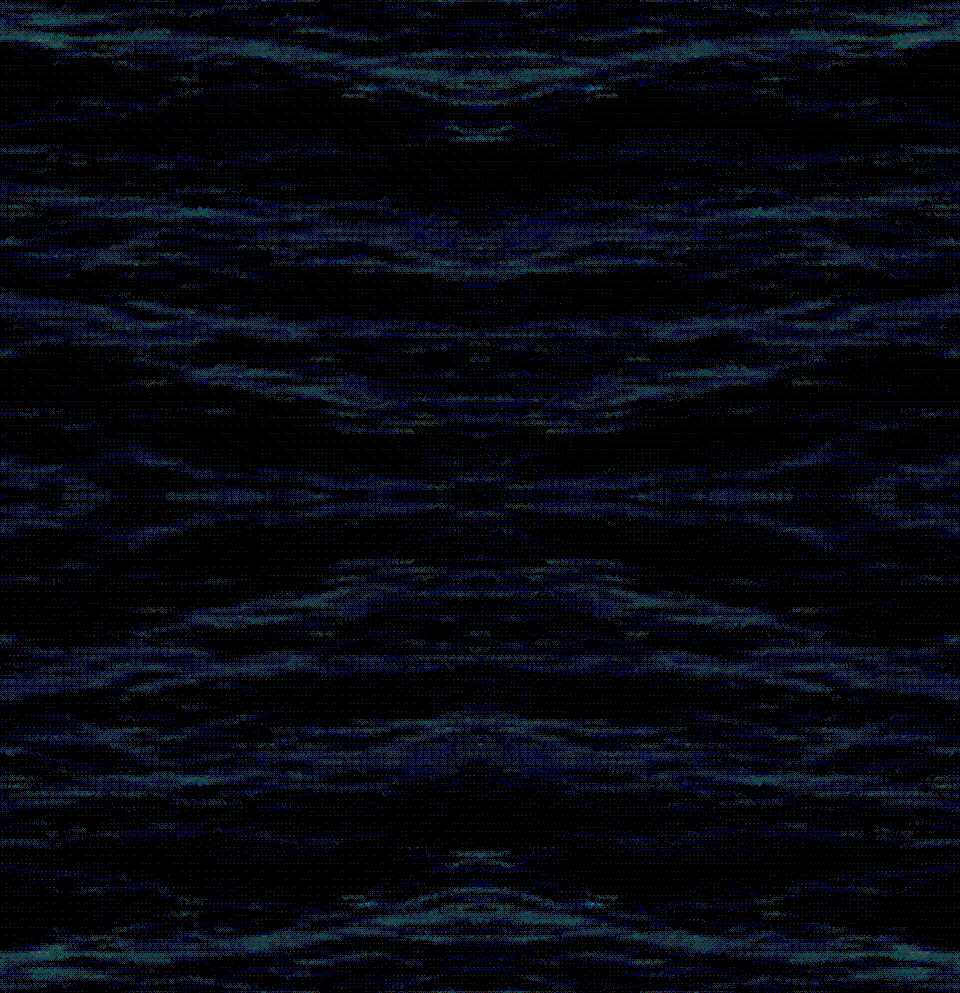
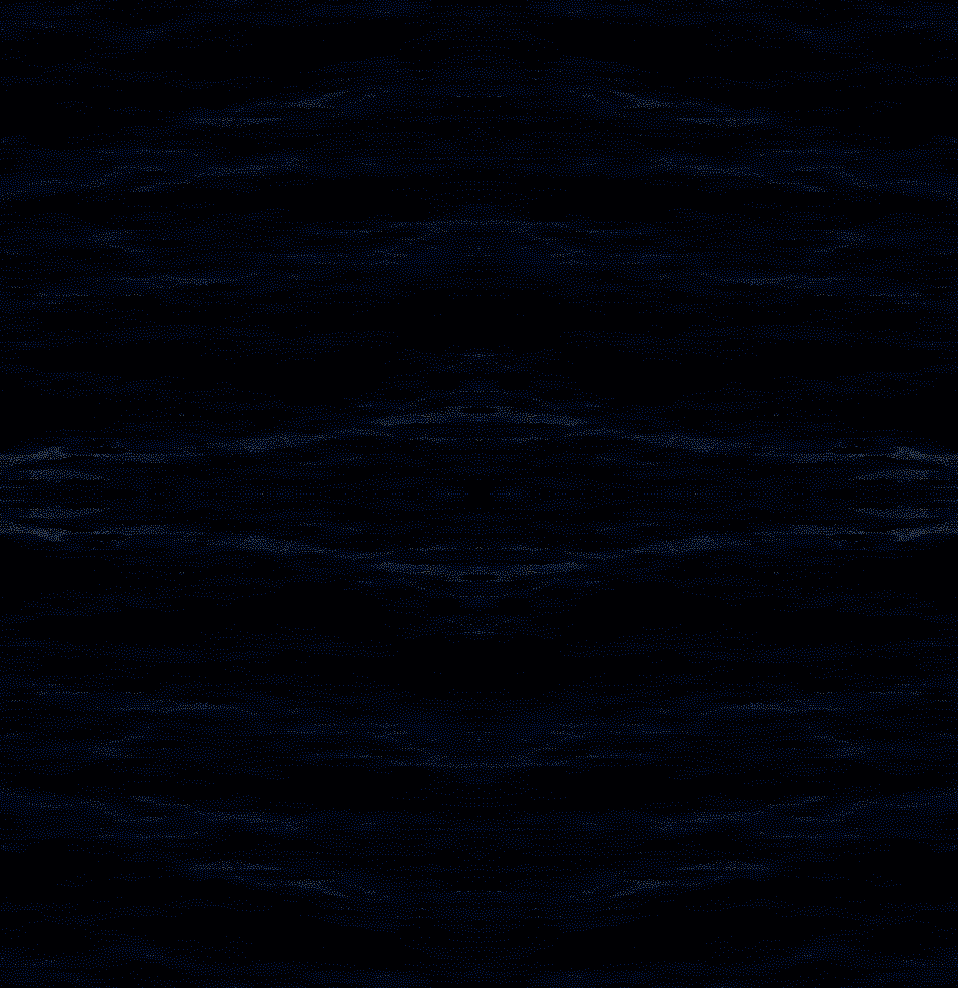
new, better background on main page plus less flicker.

diff --git a/style.css b/style.css
@@ -68,7 +68,7 @@ thead {
 button:hover { background-color: rgb(120, 6, 6) !important; }
 
 @keyframes flow-bg {
-	100% { background-position: -1920px 993px; }
+	100% { background-position: -1916px 988px; }
 }
 
 #keyboard-shortcuts {
